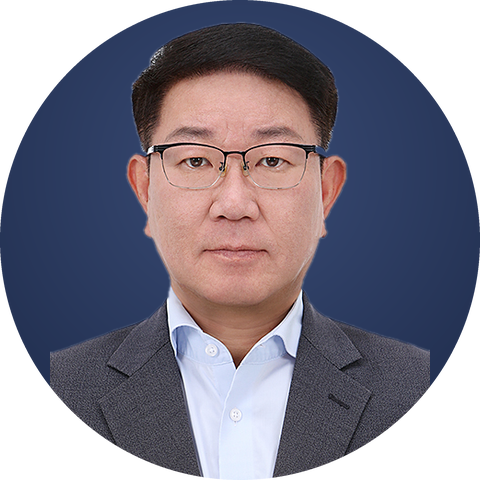
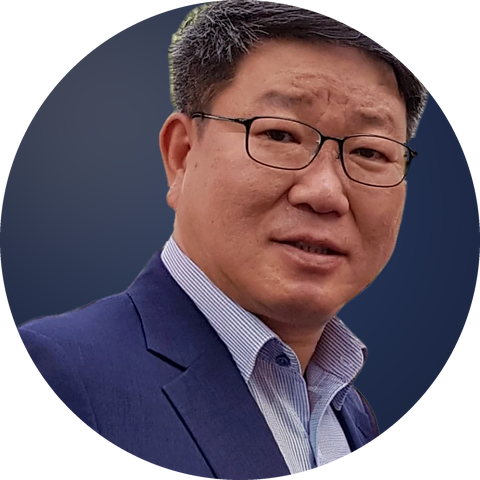
대표사진과 카톡 미리보기 이미지 교체
Claude-Session: https://claude.ai/code/session_01KLmiwAD6x3nYCUqAtCkAyS

diff --git a/index.html b/index.html
@@ -9,7 +9,7 @@
 <meta property="og:type" content="profile">
 <meta property="og:title" content="이정기 | 작가·플로우워커">
 <meta property="og:description" content="前 광주특별시의회 전문위원 · 현미경과 망원경으로 정치와 행정을 보아 온 사람">
-<meta property="og:image" content="https://abcorea-creator.github.io/assets/og-image.jpg">
+<meta property="og:image" content="https://abcorea-creator.github.io/assets/og-image.jpg?v=2">
 <meta property="og:url" content="https://abcorea-creator.github.io/">
 <link rel="icon" href="assets/favicon.png">
 <link rel="apple-touch-icon" href="assets/apple-touch-icon.png">
@@ -162,7 +162,7 @@ footer small{color:var(--on-ink-muted);font-size:12.5px}
 <header class="hero">
   <div class="wrap">
     <div class="portrait">
-      <img src="assets/avatar.png" alt="이정기 프로필 사진" width="480" height="480">
+      <img src="assets/avatar.png?v=2" alt="이정기 프로필 사진" width="480" height="480">
     </div>
     <h1 class="name">이정기 <small>李政基</small></h1>
     <p class="role">작가 · 플로우워커</p>
